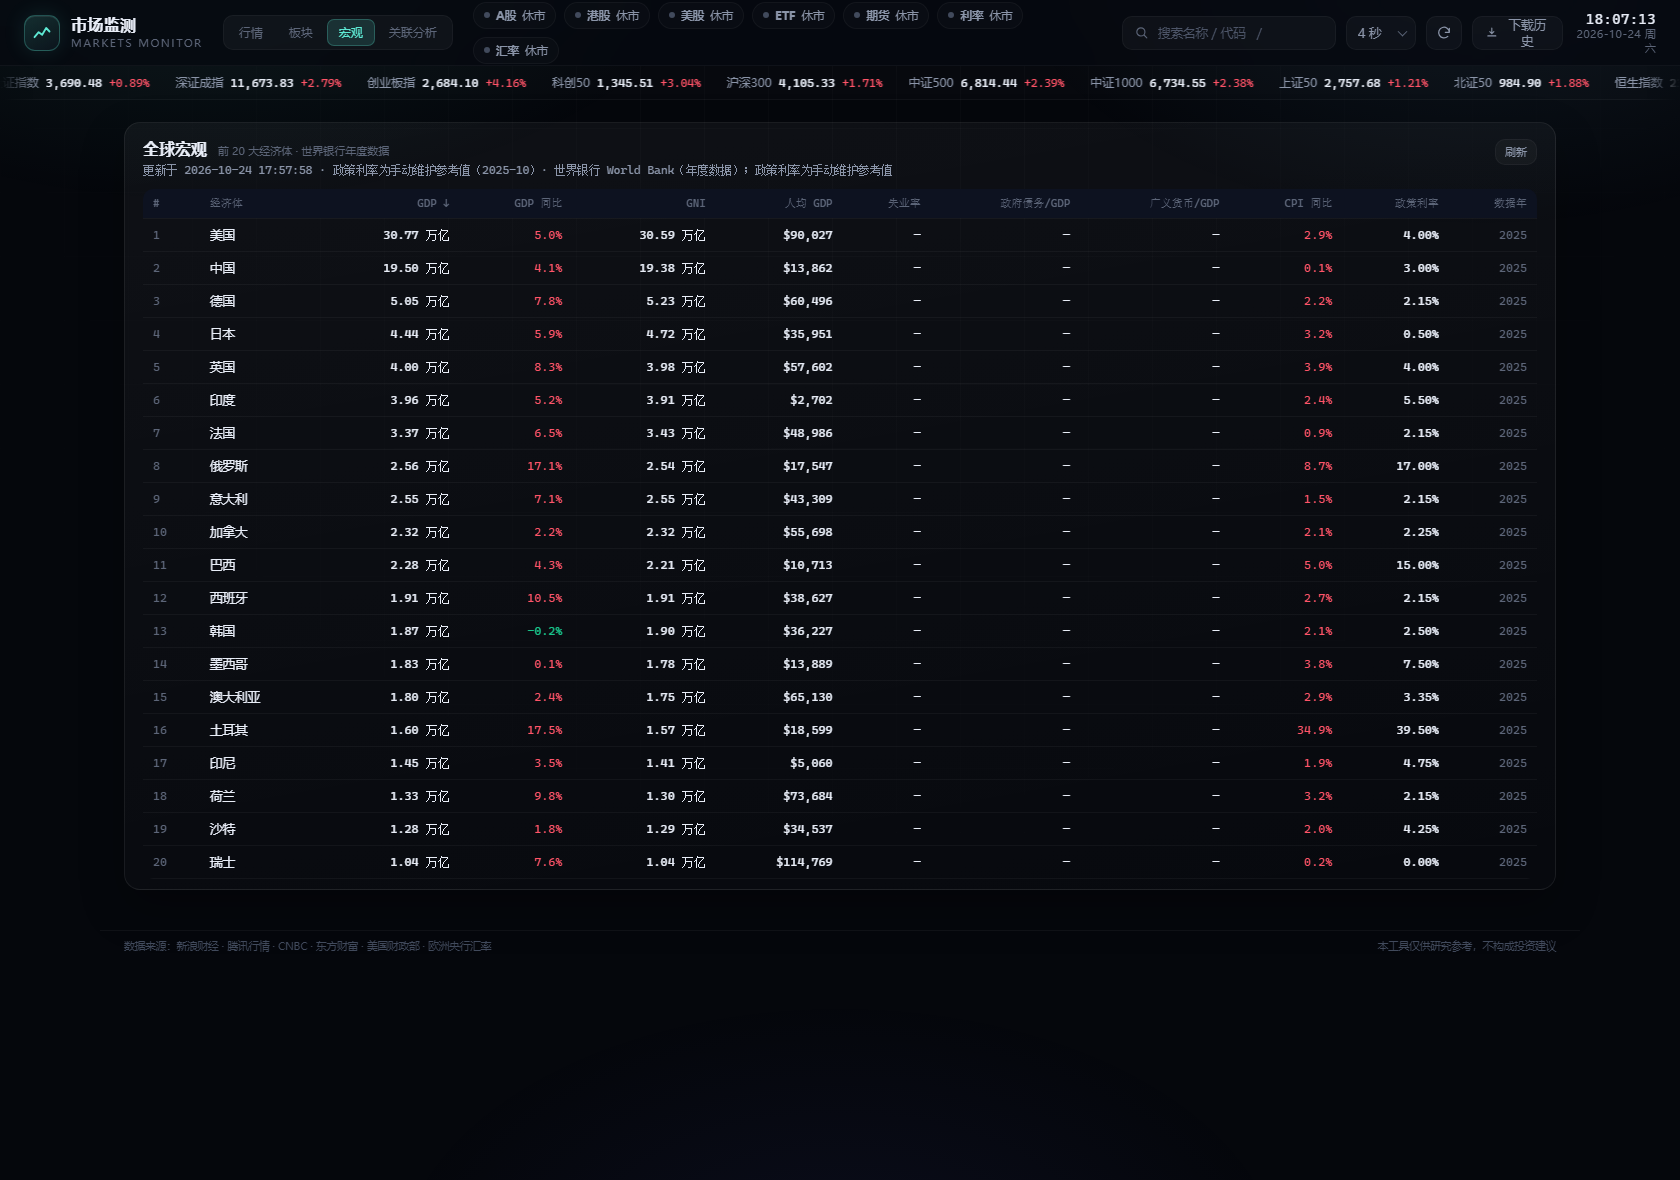
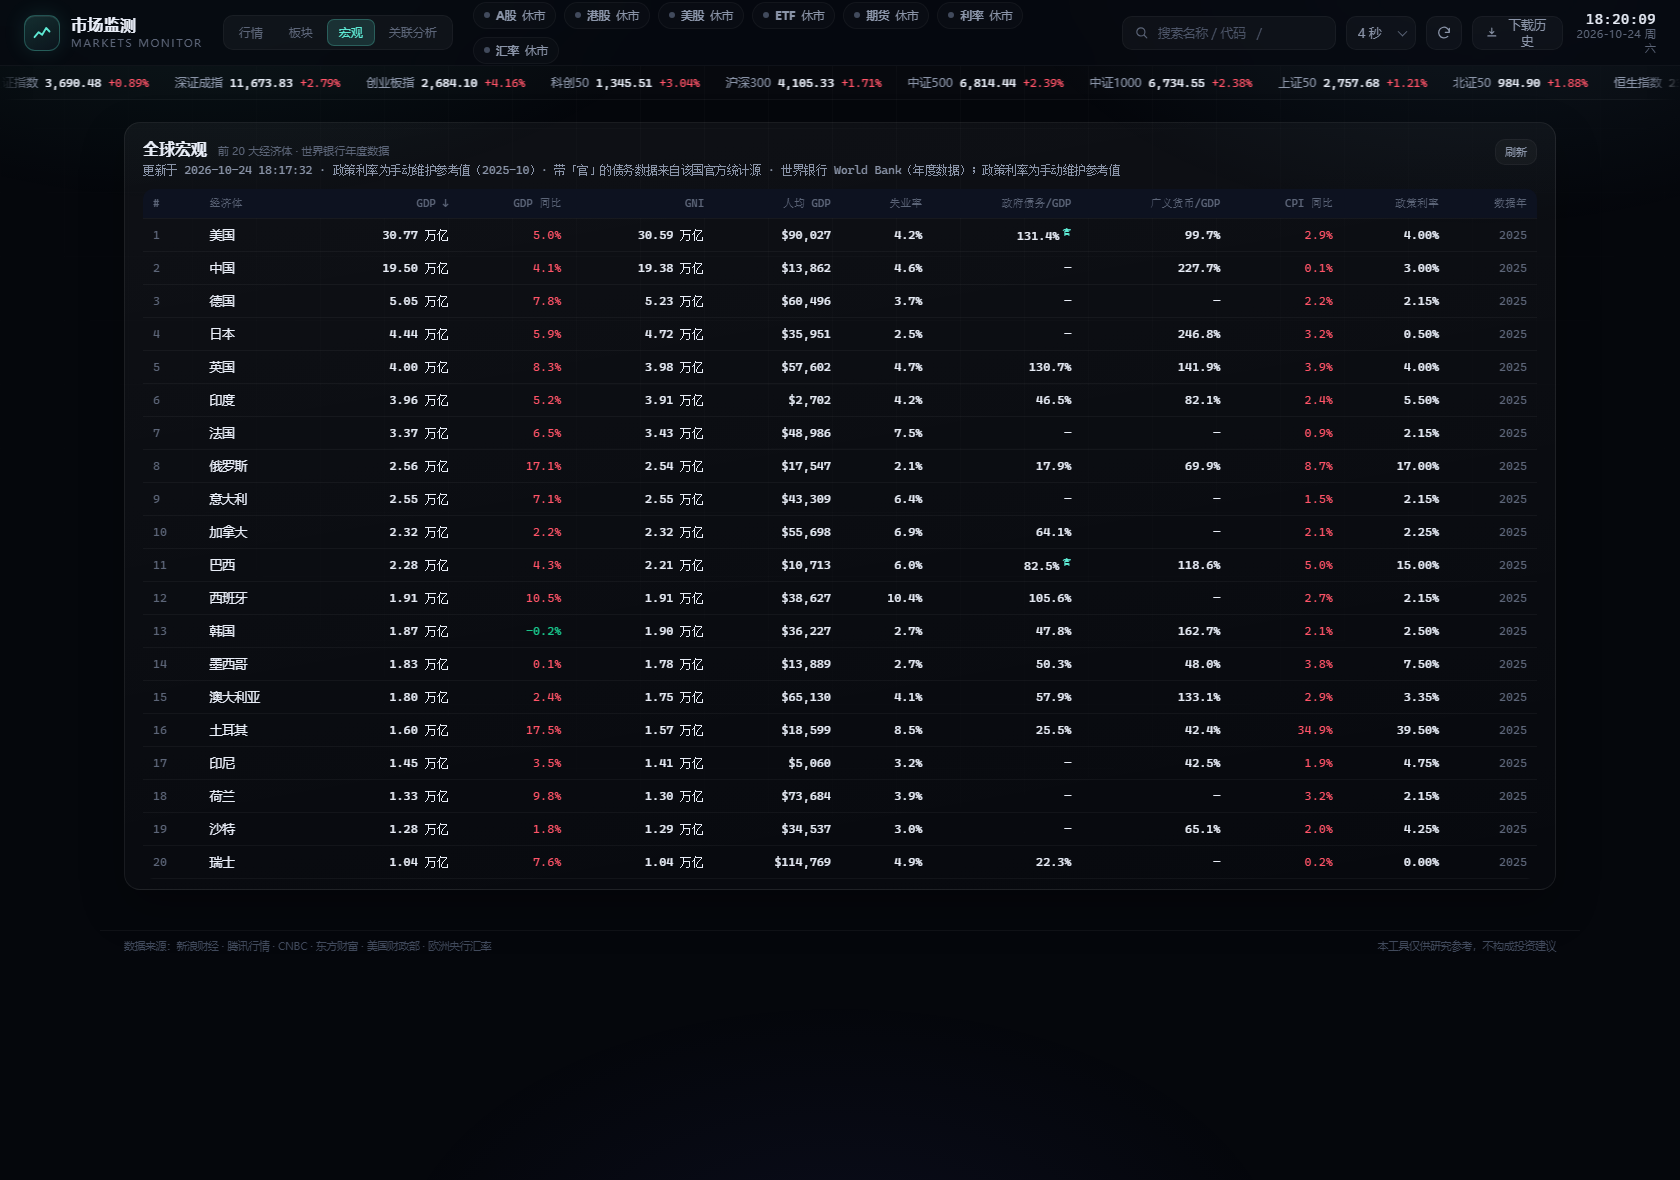
feat(macro): 债务数据接入各国官方源框架
- 新增 sovereign_debt.py：美国财政部 FiscalData、巴西央行 SGS 13762
- 官方数据覆盖世界银行，并在表格中以「官」标记、悬浮显示来源与日期
- 其余国家仍用世界银行；新增国家只需注册一个抓取函数
- README 说明各源可用性现状

diff --git a/market_monitor/web/app.js b/market_monitor/web/app.js
@@ -2188,7 +2188,7 @@
           <td>${fmtTrl(r.gni)}</td>
           <td>${fmtUsd(r.gdp_pc)}</td>
           <td>${fmtPct1(r.unemployment)}</td>
-          <td>${fmtPct1(r.debt)}</td>
+          <td title="${r.debt_source || ""}${r.debt_as_of ? " · " + r.debt_as_of : ""}">${fmtPct1(r.debt)}${r.debt_source && r.debt_source !== "世界银行" ? '<i class="src">官</i>' : ""}</td>
           <td>${fmtPct1(r.m2)}</td>
           <td class="${(r.cpi || 0) >= 0 ? "up" : "down"}">${fmtPct1(r.cpi)}</td>
           <td>${r.rate == null ? "—" : r.rate.toFixed(2) + "%"}</td>
@@ -2198,7 +2198,7 @@
       .join("");
     $("#macro-table").innerHTML = head + `<tbody>${body}</tbody>`;
     $("#macro-sub").textContent =
-      `更新于 ${d.updated_at} · 政策利率为手动维护参考值（${d.policy_as_of}）· ${d.source}`;
+      `更新于 ${d.updated_at} · 政策利率为手动维护参考值（${d.policy_as_of}）· 带「官」的债务数据来自该国官方统计源 · ${d.source}`;
   }
 
   function bindAnalysis() {

diff --git a/market_monitor/web/styles.css b/market_monitor/web/styles.css
@@ -890,3 +890,5 @@ footer {
 .macro-table .idx { color: var(--faint); }
 .macro-table .up { color: var(--up); }
 .macro-table .down { color: var(--down); }
+
+.macro-table .src { font-style: normal; font-size: 9px; color: var(--accent); margin-left: 3px; vertical-align: super; }

diff --git a/market_monitor/sovereign_debt.py b/market_monitor/sovereign_debt.py
@@ -1,0 +1,106 @@
+"""各国官方统计源的债务数据。
+
+世界银行的债务数据有 1~2 年滞后，这里补充各国官方发布的实时数据。
+已接入：
+    USA  美国财政部 FiscalData（总公共债务，美元）
+    BRA  巴西央行 SGS 13762（一般政府总债务 / GDP，%）
+其余国家暂时回落到世界银行，并在界面上标明来源。
+"""
+from __future__ import annotations
+
+import threading
+import time
+from typing import Any, Dict, Optional
+
+from .net import http
+
+_LOCK = threading.Lock()
+_CACHE: Dict[str, tuple] = {}
+
+
+def _get(key: str, ttl: float) -> Optional[Any]:
+    with _LOCK:
+        hit = _CACHE.get(key)
+        if hit and time.time() - hit[1] < ttl:
+            return hit[0]
+    return None
+
+
+def _put(key: str, value: Any) -> None:
+    with _LOCK:
+        _CACHE[key] = (value, time.time())
+
+
+def _us_debt() -> Optional[Dict[str, Any]]:
+    """美国财政部：总公共债务余额（美元）。"""
+    url = "https://api.fiscaldata.treasury.gov/services/api/fiscal_service/v2/accounting/od/debt_to_penny"
+    try:
+        data = http.get_json(url, params={"sort": "-record_date", "page[size]": 1}, timeout=15)
+    except Exception:
+        return None
+    rows = (data or {}).get("data") or []
+    if not rows:
+        return None
+    row = rows[0]
+    amount = row.get("tot_pub_debt_out_amt")
+    try:
+        amount = float(amount)
+    except (TypeError, ValueError):
+        return None
+    return {"amount": amount, "as_of": row.get("record_date"), "source": "美国财政部 FiscalData"}
+
+
+def _br_debt() -> Optional[Dict[str, Any]]:
+    """巴西央行 SGS 13762：一般政府总债务占 GDP（%）。"""
+    url = "https://api.bcb.gov.br/dados/serie/bcdata.sgs.13762/dados/ultimos/2"
+    try:
+        rows = http.get_json(url, params={"formato": "json"}, timeout=15) or []
+    except Exception:
+        return None
+    if not rows:
+        return None
+    last = rows[-1]
+    try:
+        pct = float(last.get("valor"))
+    except (TypeError, ValueError):
+        return None
+    raw = last.get("data") or ""
+    as_of = raw
+    if "/" in raw:
+        d, m, y = raw.split("/")
+        as_of = f"{y}-{m}-{d}"
+    return {"pct": pct, "as_of": as_of, "source": "巴西央行 BCB SGS 13762"}
+
+
+# 国家 -> 抓取函数
+ADAPTERS = {
+    "USA": _us_debt,
+    "BRA": _br_debt,
+}
+
+
+def snapshot(gdp: Dict[str, Optional[float]]) -> Dict[str, Dict[str, Any]]:
+    """抓取可用的官方债务数据；gdp 用于把绝对金额换算成占 GDP 比例。"""
+    cached = _get("snapshot", 21600)
+    if cached is not None:
+        return cached
+    out: Dict[str, Dict[str, Any]] = {}
+    for code, fn in ADAPTERS.items():
+        try:
+            item = fn()
+        except Exception:
+            item = None
+        if not item:
+            continue
+        if item.get("pct") is None and item.get("amount") and gdp.get(code):
+            item["pct"] = item["amount"] / gdp[code] * 100.0
+        out[code] = item
+    _put("snapshot", out)
+    return out
+
+
+def warm(gdp: Dict[str, Optional[float]]) -> None:
+    try:
+        snapshot(gdp)
+    except Exception:
+        pass

diff --git a/_probe_debt.py b/_probe_debt.py
@@ -1,0 +1,39 @@
+import json
+import time
+
+import requests
+
+H = {"User-Agent": "Mozilla/5.0 (Windows NT 10.0; Win64; x64) AppleWebKit/537.36 Chrome/124.0 Safari/537.36"}
+
+
+def probe(name, url, **kw):
+    t = time.time()
+    try:
+        r = requests.get(url, headers=H, timeout=20, **kw)
+        body = r.text[:160].replace("\n", " ")
+        print(f"{name:<18} {r.status_code} {len(r.text):>8} {time.time()-t:>5.1f}s {body!r}")
+    except Exception as e:
+        print(f"{name:<18} ERR {type(e).__name__} {str(e)[:60]}")
+
+
+# 美国：财政部 debt to the penny
+probe("US treasury", "https://api.fiscaldata.treasury.gov/services/api/fiscal_service/v2/accounting/od/debt_to_penny",
+      params={"sort": "-record_date", "page[size]": 1})
+
+# 巴西：央行 SGS 13762（一般政府总债务占 GDP%）
+probe("BR bcb", "https://api.bcb.gov.br/dados/serie/bcdata.sgs.13762/dados/ultimos/3",
+      params={"formato": "json"})
+
+# 英国：ONS 公共部门净债务
+probe("UK ons", "https://api.beta.ons.gov.uk/v1/datasets")
+
+# 加拿大：StatCan WDS（联邦债务占 GDP）
+probe("CA statcan", "https://www150.statcan.gc.ca/t1/wds/rest/getDataFromVectorsAndLatestNPeriods",
+      json_data=None)
+
+# 澳大利亚：ABS SDMX
+probe("AU abs", "https://api.data.abs.gov.au/data/ABS,CTPI,1.10001.10.Q?lastNObservations=1",
+      headers={**H, "Accept": "application/vnd.sdmx.data+json;version=1.0.0"})
+
+# 日本：财务省
+probe("JP mof", "https://www.mof.go.jp/english/policy/jgbs/reference/appendix/index.html")

diff --git a/market_monitor/macro.py b/market_monitor/macro.py
@@ -10,6 +10,7 @@ import time
 from concurrent.futures import ThreadPoolExecutor
 from typing import Any, Dict, List, Optional
 
+from . import sovereign_debt
 from .net import http
 
 # 前 20 大经济体（按名义 GDP），ISO3 代码
@@ -133,6 +134,22 @@ def snapshot(force: bool = False) -> Dict[str, Any]:
         rows.append(row)
 
     rows.sort(key=lambda r: (r.get("gdp") is None, -(r.get("gdp") or 0)))
+
+    # 各国官方债务源（美国财政部 / 巴西央行）覆盖世界银行数据
+    try:
+        official = sovereign_debt.snapshot({r["code"]: r.get("gdp") for r in rows})
+    except Exception:
+        official = {}
+    for r in rows:
+        ov = official.get(r["code"])
+        if ov:
+            if ov.get("pct") is not None:
+                r["debt"] = ov["pct"]
+            r["debt_source"] = ov.get("source")
+            r["debt_as_of"] = ov.get("as_of")
+            r["debt_amount"] = ov.get("amount")
+        else:
+            r["debt_source"] = "世界银行"
     total = sum((r.get("gdp") or 0) for r in rows)
     for r in rows:
         r["share"] = (r["gdp"] / total * 100) if total and r.get("gdp") else None

diff --git a/README.md b/README.md
@@ -20,7 +20,7 @@
 - **资金流**：按收盘价在当日高低区间的位置拆分成交额，得到每日流入 / 流出占比、5 日均线和累计净流入曲线；另有市场级面板横向对比 A 股 / 港股 / 美股 / ETF / 期货 / **债券** / **利率** 的资金强弱（债券用国债期货 T/TF/TS + 国债 ETF 代表；利率按收益率日变动反向归一化，收益率下行视为净流入）。
 - **个股下钻**：点击树图里的任意个股，右侧区域**就地切换**为个股视图（不弹窗、不跳转）——当日分时、日线 K 线（MA20 + 成交量）、资金流，左上「返回板块」回到热力图。
 - **板块热力图**：新增「板块」视图——左侧 49 个 A 股行业按涨跌幅排序，右侧是行业前 50 只个股的树图，**方块面积 = 总市值、颜色 = 涨跌幅**，并自动匹配该行业的 ETF。
-- **全球宏观**：新增「宏观」视图——前 20 大经济体的 GDP、GNI、人均 GDP、GDP 同比、失业率、政府债务/GDP、广义货币/GDP、CPI、政策利率，按 GDP 排序、点表头可换列排序。
+- **全球宏观**：新增「宏观」视图——前 20 大经济体的 GDP、GNI、人均 GDP、GDP 同比、失业率、政府债务/GDP、广义货币/GDP、CPI、政策利率，按 GDP 排序、点表头可换列排序。债务数据优先取各国官方源（美国财政部 FiscalData、巴西央行 SGS），带「官」标记即为官方口径，其余回落到世界银行。
 
 ![宏观](docs/macro.png)
 
@@ -220,7 +220,9 @@ Market_monitor/
 - 新浪美股日线为**源端调整后**的价格，与部分终端的前复权口径可能不同。
 - **资金流是估算**：按 OHLCV 推导（收盘价在当日高低区间中的位置 = 流入占比），不是券商 / 交易所口径的「主力资金净流入」——后者需要逐笔成交数据，公开接口不稳定。
 - **板块热力图目前只覆盖 A 股**：新浪行业分类共 49 个，行业 ETF 按名称匹配（部分行业没有对应 ETF）。港股 / 美股没有稳定的免费行业分类接口，暂未接入。
-- **宏观数据可能不完整**：世界银行 API 对连续请求有限流，失业率 / 政府债务 / 广义货币 / 人口等指标偶尔返回超时，界面上显示为「—」，点右上「刷新」可重试；政策利率为代码内手动维护的参考值。
+- **宏观数据可能不完整**：世界银行 API 对连续请求有限流，个别指标偶尔超时显示为「—」，点右上「刷新」可重试；中国、德国、法国等国家的「政府债务/GDP」在世界银行里本身缺报，也显示为「—」。
+- **主权债务的官方源只接了美国、巴西**：各国统计口径与接口差异极大（英国 ONS 旧 API 已下线、澳大利亚 ABS 直连失败、IMF DataMapper 返回 403、日本财务省没有结构化接口），目前无法一次性覆盖 20 国。新增一个国家只需在 `market_monitor/sovereign_debt.py` 写一个抓取函数并注册到 `ADAPTERS`。
+- 政策利率为代码内手动维护的参考值（`POLICY_RATES` / `POLICY_AS_OF`）。
 - 本工具仅供研究参考，不构成任何投资建议。
 
 ## 本地数据
